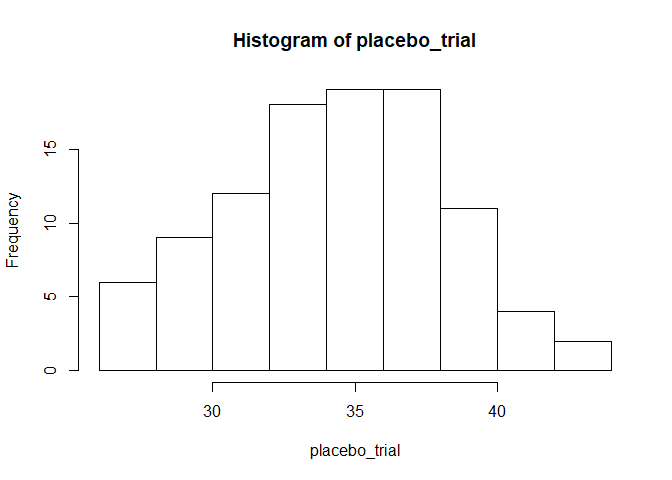
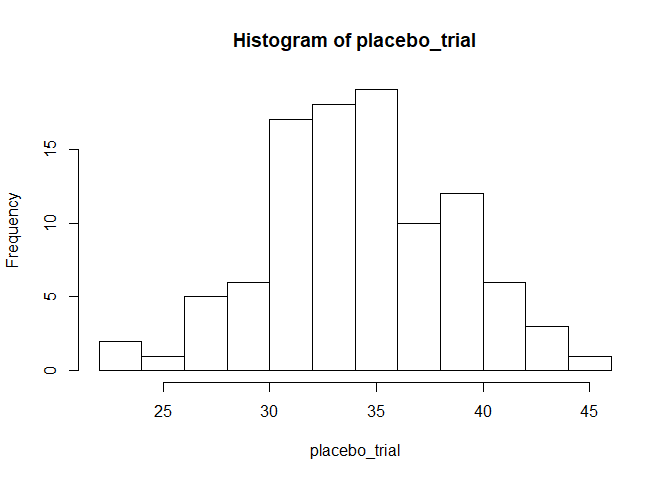
W7 Thursday Commit

diff --git a/Statistics Done Wrong Musings/CH2.md b/Statistics Done Wrong Musings/CH2.md
@@ -1,0 +1,101 @@
+Chapter 2 Statistics Gone Wrong Musings
+================
+Nurrospody
+5/14/2020
+
+Another *Statistics Done Wrong* chapter; another Musings.
+
+This chapter, Chapter 2, talks about *Statistical Power and Underpowered
+Statistics*.
+
+The basic premise of statistical Power is, ‘based on *n*, you are only
+x% likely to actually find the change you’re looking for if it exists’.
+Alternatively, ‘based on *n*, you must find x% of a difference before
+your statistical tests can actually detect that a significant difference
+exists’.
+
+This means that if you want to do any kind of hypothesis test, you
+shouldn’t even start until you know how much data you want. Otherwise
+you’re just wasting your time and funding, because you probably won’t be
+able to detect what you’re looking for and are doomed from the start.
+
+There are graphs called ‘power curves’ which look like an upside-down
+bellcurve that’s on a “True Probability” X-axis and “Power” Y-axis. The
+tip of the bellcurve travels down to 0.5 probability and rests at 0.05
+power (you are 5% likely to get a result which actually says something
+does not happen 50% of the time, when it actually does happen 50% of the
+time), and the rest of the curve has a steeper or shallow-er curve
+depending on how much data you have. With a shallow curve, you’re not
+likely to prove anything unless there’s *very extreme deviation from
+random chance* going on; with a steep curve, you can detect smaller
+nuances.
+
+For purely practical reasons like trying to prove if someone’s die is
+misbalanced for a tabletop game, you’re basically never going to get
+enough data to statistically prove whether it’s actually a bad die or
+not, unless the die is *extremely biased*, because you don’t want to try
+rolling their dice a thousand times. Even if you rolled their die a
+hundred times, you’d only find a difference if it was *extremely* biased
+and not just slightly.
+
+But for scientific discoveries that shape how we see the world, we
+should be getting that much data.
+
+. . . except we’re not. Apparently less than 3% of articles published in
+prestigious journals like Science calculate their power beforehand. In a
+sample of studies made between 1975 and 1990, more than four-fifths of
+them didn’t have a big enough control group that if whatever they were
+studying made a 25% difference from the control . . . they lacked the
+sufficient data to actually reach that conclusion. Two-thirds of them
+couldn’t even detect a 50% difference\! Suffice to say, my skepticism
+level has gone way up.
+
+We need larger n for research. This is a problem for trying to prove
+anything that requires biological life as a subject, since IACUCs often
+recommend reducing the number of animals before they approve of
+experiments. Finding enough human volunteers is also difficult. But if
+you can only find 100 humans, or you can only kill 200 mice, it’s not
+worth it to approve of the study at all. 200 mice die for no reason,
+2000 mice die to actually find an answer. Having a statistician and a
+veterinarian on the same IACUC would certainly be a conversation to see.
+
+Power calculation isn’t often mentioned in intro stat courses, so its
+existence isn’t widely known. I only got one paragraph to read and no
+assigned practice problems about Power in my Triola 13th Edition stats
+book.
+
+Having some programing experience and using technology like R can help
+improve power *without* increasing n (like in the case of animal
+studies) by simulating thousands of artificial datasets. But a
+specialist needs to know what they are doing and you especially don’t
+want to overblow underpowered data this way. Underpowered data are data
+from experiments that were too small in n, but found extreme results.
+Rather than assuming a small experiment with big results found something
+impressive, it’s better to assume they just didn’t have a big enough n
+and the difference would have been smaller and less dramatic (or not
+detectable at all) with more subjects. In a competitive field,
+researchers are often pushed to publish these underpowered studies with
+‘impressive results’ because they want to get something exciting into
+the paper before the next person. More mild results from future studies
+tend to be more accurate.
+
+OTHER THAN POWER, confidence intervals (CI) can be useful as well.
+Confidence intervals tell us that ‘within this margin, we are x% certain
+that the true mean of the data lies here’. If that margin is enormous,
+then there probably needs to be more data. If that margin is tiny, then
+the difference is small and it might not be important afterall.
+Confidence intervals are very informative for the state of our
+experiment and can inform whether the result of a hypothsis test might
+be a type 1 or 2 error.
+
+Look at your data. If you see a pattern in your data that indicates a
+difference, but the hypothesis test reports no significant difference—is
+there still a PRACTICAL difference? If you think so, consider getting a
+larger n or including this analysis in your report. This is what
+happened when the United States legalized turning right on red lights;
+all experiments DID SEE an increase in accidents when turning on red was
+allowed, but it wasn’t deemed significant because of the hypothesis test
+and a low n. If the data from all these experiments was combined, it
+would have shown a statistically significant increase—and it did; the
+change came with 20% more collisions, 60% more pedestrian run-overs, and
+twice as many bicycle hits.

diff --git a/Chapter Reports/CH4-part5.md b/Chapter Reports/CH4-part5.md
@@ -6,8 +6,8 @@ Regressions, and Statistics*
 
   - [Binomial Distribution **New Commands: dbinom(), pbinom(), qbinom(),
     rbinom()**](#binomial-distribution-new-commands-dbinom-pbinom-qbinom-rbinom)
-  - [Summary and Structure **New? Commands: summary(),
-    str()**](#summary-and-structure-new-commands-summary-str)
+  - [Summary and Structure **summary(),
+    str()**](#summary-and-structure-summary-str)
 
 #### Binomial Distribution **New Commands: dbinom(), pbinom(), qbinom(), rbinom()**
 
@@ -77,9 +77,9 @@ either side.
 cointoss <- rbinom(100, 1, 0.5); cointoss
 ```
 
-    ##   [1] 0 1 0 0 0 0 0 1 0 1 1 1 0 1 1 1 0 0 0 0 1 1 0 1 1 1 1 1 1 1 0 1 1 0 1 1 0
-    ##  [38] 0 0 0 1 0 1 0 1 1 1 0 1 0 1 0 1 0 0 0 0 1 1 0 0 0 0 1 1 0 1 1 1 1 1 0 0 1
-    ##  [75] 1 0 0 0 0 1 1 1 1 0 0 1 1 0 0 1 1 1 1 1 1 0 0 0 0 0
+    ##   [1] 0 0 0 1 1 0 1 1 0 0 0 1 1 0 0 0 1 1 1 1 1 1 1 1 0 0 0 0 1 1 0 1 1 1 0 0 1
+    ##  [38] 0 0 1 1 0 0 0 1 0 1 1 1 0 1 1 1 0 0 0 0 1 0 1 0 0 0 1 0 1 1 1 1 1 0 1 0 0
+    ##  [75] 1 1 1 1 1 0 1 1 0 1 0 1 0 0 1 1 0 1 0 0 1 1 1 0 0 1
 
 ``` r
 hist(cointoss, breaks=2)
@@ -106,18 +106,18 @@ polygon(d, col="pink", border="green")
 
 ![](CH4-part5_files/figure-gfm/unnamed-chunk-5-2.png)<!-- -->
 
-#### Summary and Structure **New? Commands: summary(), str()**
+#### Summary and Structure **summary(), str()**
 
-Chapter 4, descriptive statistics, ends on these two commands, but I’m
-fairly sure the book has already covered them before so I’m a little
-confused as to why they’re here.
+Chapter 4, descriptive statistics, ends on these two commands, but I’ve
+already used them both before, so I’m a little confused as to why
+they’re here.
 
 ``` r
 summary(placebo_trial)
 ```
 
     ##    Min. 1st Qu.  Median    Mean 3rd Qu.    Max. 
-    ##    26.0    32.0    35.0    34.8    38.0    43.0
+    ##   23.00   32.00   35.00   34.79   38.00   46.00
 
 ``` r
 summary(PlantGrowth)
@@ -136,7 +136,7 @@ testBdata <- rbinom(70, 100, 0.69); summary(testBdata)
 ```
 
     ##    Min. 1st Qu.  Median    Mean 3rd Qu.    Max. 
-    ##   57.00   65.00   68.50   68.57   73.00   78.00
+    ##   58.00   67.25   70.00   69.60   72.00   79.00
 
 I’ve included **summaries** from the “placebo\_trial” example earlier, a
 built-in dataset called “PlantGrowth” I discovered by happy accident,
@@ -148,7 +148,7 @@ These are the **structures** of the same datasets as above.
 str(placebo_trial)
 ```
 
-    ##  int [1:100] 40 38 42 35 38 37 29 34 34 34 ...
+    ##  int [1:100] 23 35 31 28 36 28 36 40 41 39 ...
 
 ``` r
 str(PlantGrowth)
@@ -162,7 +162,7 @@ str(PlantGrowth)
 str(testBdata)
 ```
 
-    ##  int [1:70] 69 76 73 65 73 62 71 62 67 70 ...
+    ##  int [1:70] 63 67 71 70 75 70 75 71 70 71 ...
 
 This is the last section of the CH4 reports. [Link to README to select
 any Chapter

diff --git a/README.md b/README.md
@@ -23,14 +23,18 @@ My Chapter Reports show my work and the commands I've practiced with in R.
 [CH4 *.xlsx* and SPSS files (reading and writing) and Basic Data Processing](https://github.com/Nurrospody/SOURCE-Statistics-ILC/blob/master/Chapter%20Reports/CH4-part2.md)  
 [CH4 Central Tendency, Spread, Variation Commands, Random Number Generation](https://github.com/Nurrospody/SOURCE-Statistics-ILC/blob/master/Chapter%20Reports/CH4-part3.md)  
 [CH4 part4 Special Central Tendencies, Cumulative Distribution Function, Skewness and Kurtosis](https://github.com/Nurrospody/SOURCE-Statistics-ILC/blob/master/Chapter%20Reports/CH4-part4.md)  
-[CH4 part5 Binomial Distribution and Summary/Structure](https://github.com/Nurrospody/SOURCE-Statistics-ILC/blob/master/Chapter%20Reports/CH4-part5.md)
+[CH4 part5 Binomial Distribution and Summary/Structure](https://github.com/Nurrospody/SOURCE-Statistics-ILC/blob/master/Chapter%20Reports/CH4-part5.md) 
+
+*Chapter 5*  
+[CH5 part1 Data Visualizations](https://github.com/Nurrospody/SOURCE-Statistics-ILC/blob/master/Chapter%20Reports/CH5-part1.md) 
 
 ## "Statistics Gone Wrong Musings" folder  
 Contains writeups that I've made after reading my *Statistics Gone Wrong* book by Alex Reinhart.  
   
 **DIRECT LINKS**  
   
-[Intro_CH1.md](https://github.com/Nurrospody/SOURCE-Statistics-ILC/blob/master/Statistics%20Done%20Wrong%20Musings/Into_Ch1.md)  
+[Intro and Chapter 1](https://github.com/Nurrospody/SOURCE-Statistics-ILC/blob/master/Statistics%20Done%20Wrong%20Musings/Into_Ch1.md)  
+[Chapter 2](https://github.com/Nurrospody/SOURCE-Statistics-ILC/blob/master/Statistics%20Done%20Wrong%20Musings/CH2.md)  
 
 
 ## "Timecards" folder

diff --git a/Timecards/Week-7-Timecard.md b/Timecards/Week-7-Timecard.md
@@ -34,12 +34,16 @@ rather than leaving gg til the end like the book does. It looks like
 figuring out the gg coding will be complicated, so pacing it between
 more normal graphs should help.  
 Then my computer . . . froze up and wouldn’t turn off with the power
-button, so I had to wait for it to die on its own, so instead of making
+button, so I had to wait for it to die on its own. So instead of making
 a bunch of graphs, I read chapter 2 of my Statistics Done Wrong book. I
 told my partner he should read the chapters so he can be as cynical and
 disappointed as me now.
 
-**Thursday** - 0 hours 0 minutes - work description
+**Thursday** - 1 hours 16 minutes - Wrote up the Statistics Gone Wrong
+musings from chapter 2, now that my computer is back in buisness.
+Created new report skeleton and added to README –“why is it doing that?”
+(today I learned if you don’t have — under your header it doesn’t get
+detected properly when knitting\!)
 
 **Friday** - 0 hours 0 minutes - work description
 

diff --git a/Chapter Reports/CH5-part1.md b/Chapter Reports/CH5-part1.md
@@ -1,0 +1,11 @@
+Chapter 5 part1 *Data Visualizations* Topics Here
+================
+Nurrospody
+5/14/2020, *Learn R for Applied Statistics : With Data Visualizations,
+Regressions, and Statistics*
+
+To continue reading the CH5 reports, select a new section:  
+[Part 2 of the Chapter 5 EMPTY LINK
+Reports](https://github.com/Nurrospody/SOURCE-Statistics-ILC/blob/master/Chapter%20Reports/CH5-part2.md)  
+[Link to README to select any Chapter
+Report](https://github.com/Nurrospody/SOURCE-Statistics-ILC/blob/master/README.md)
